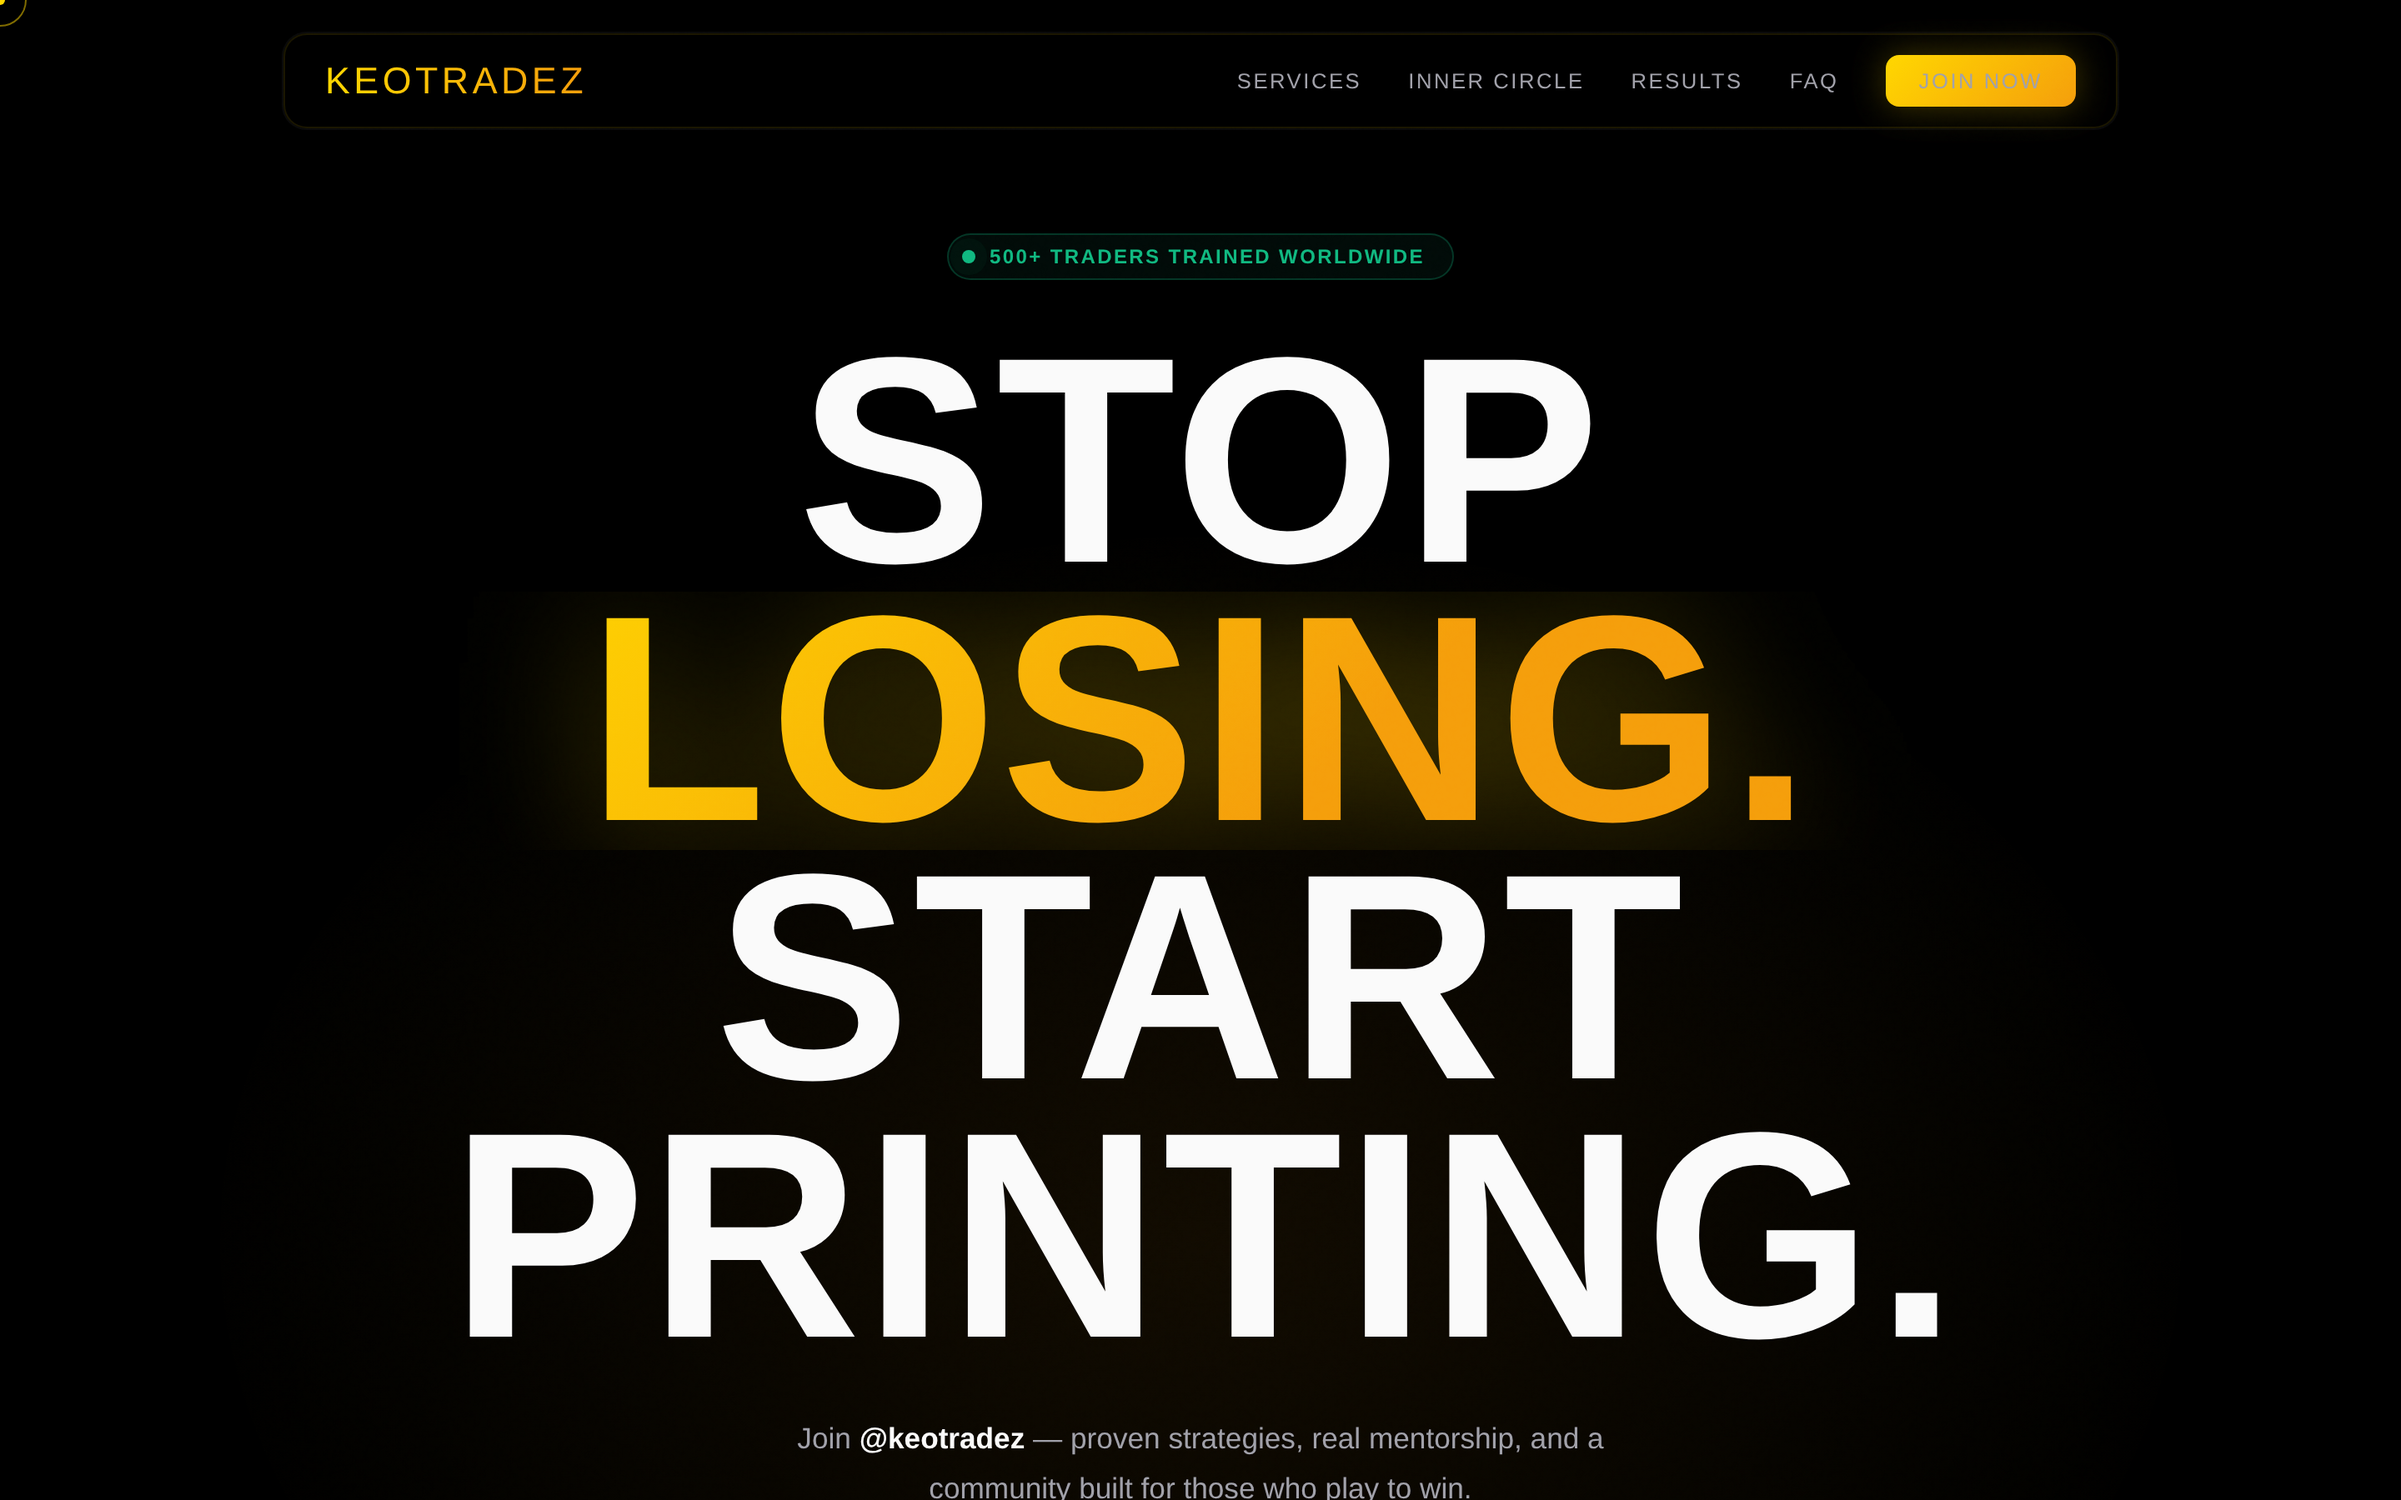
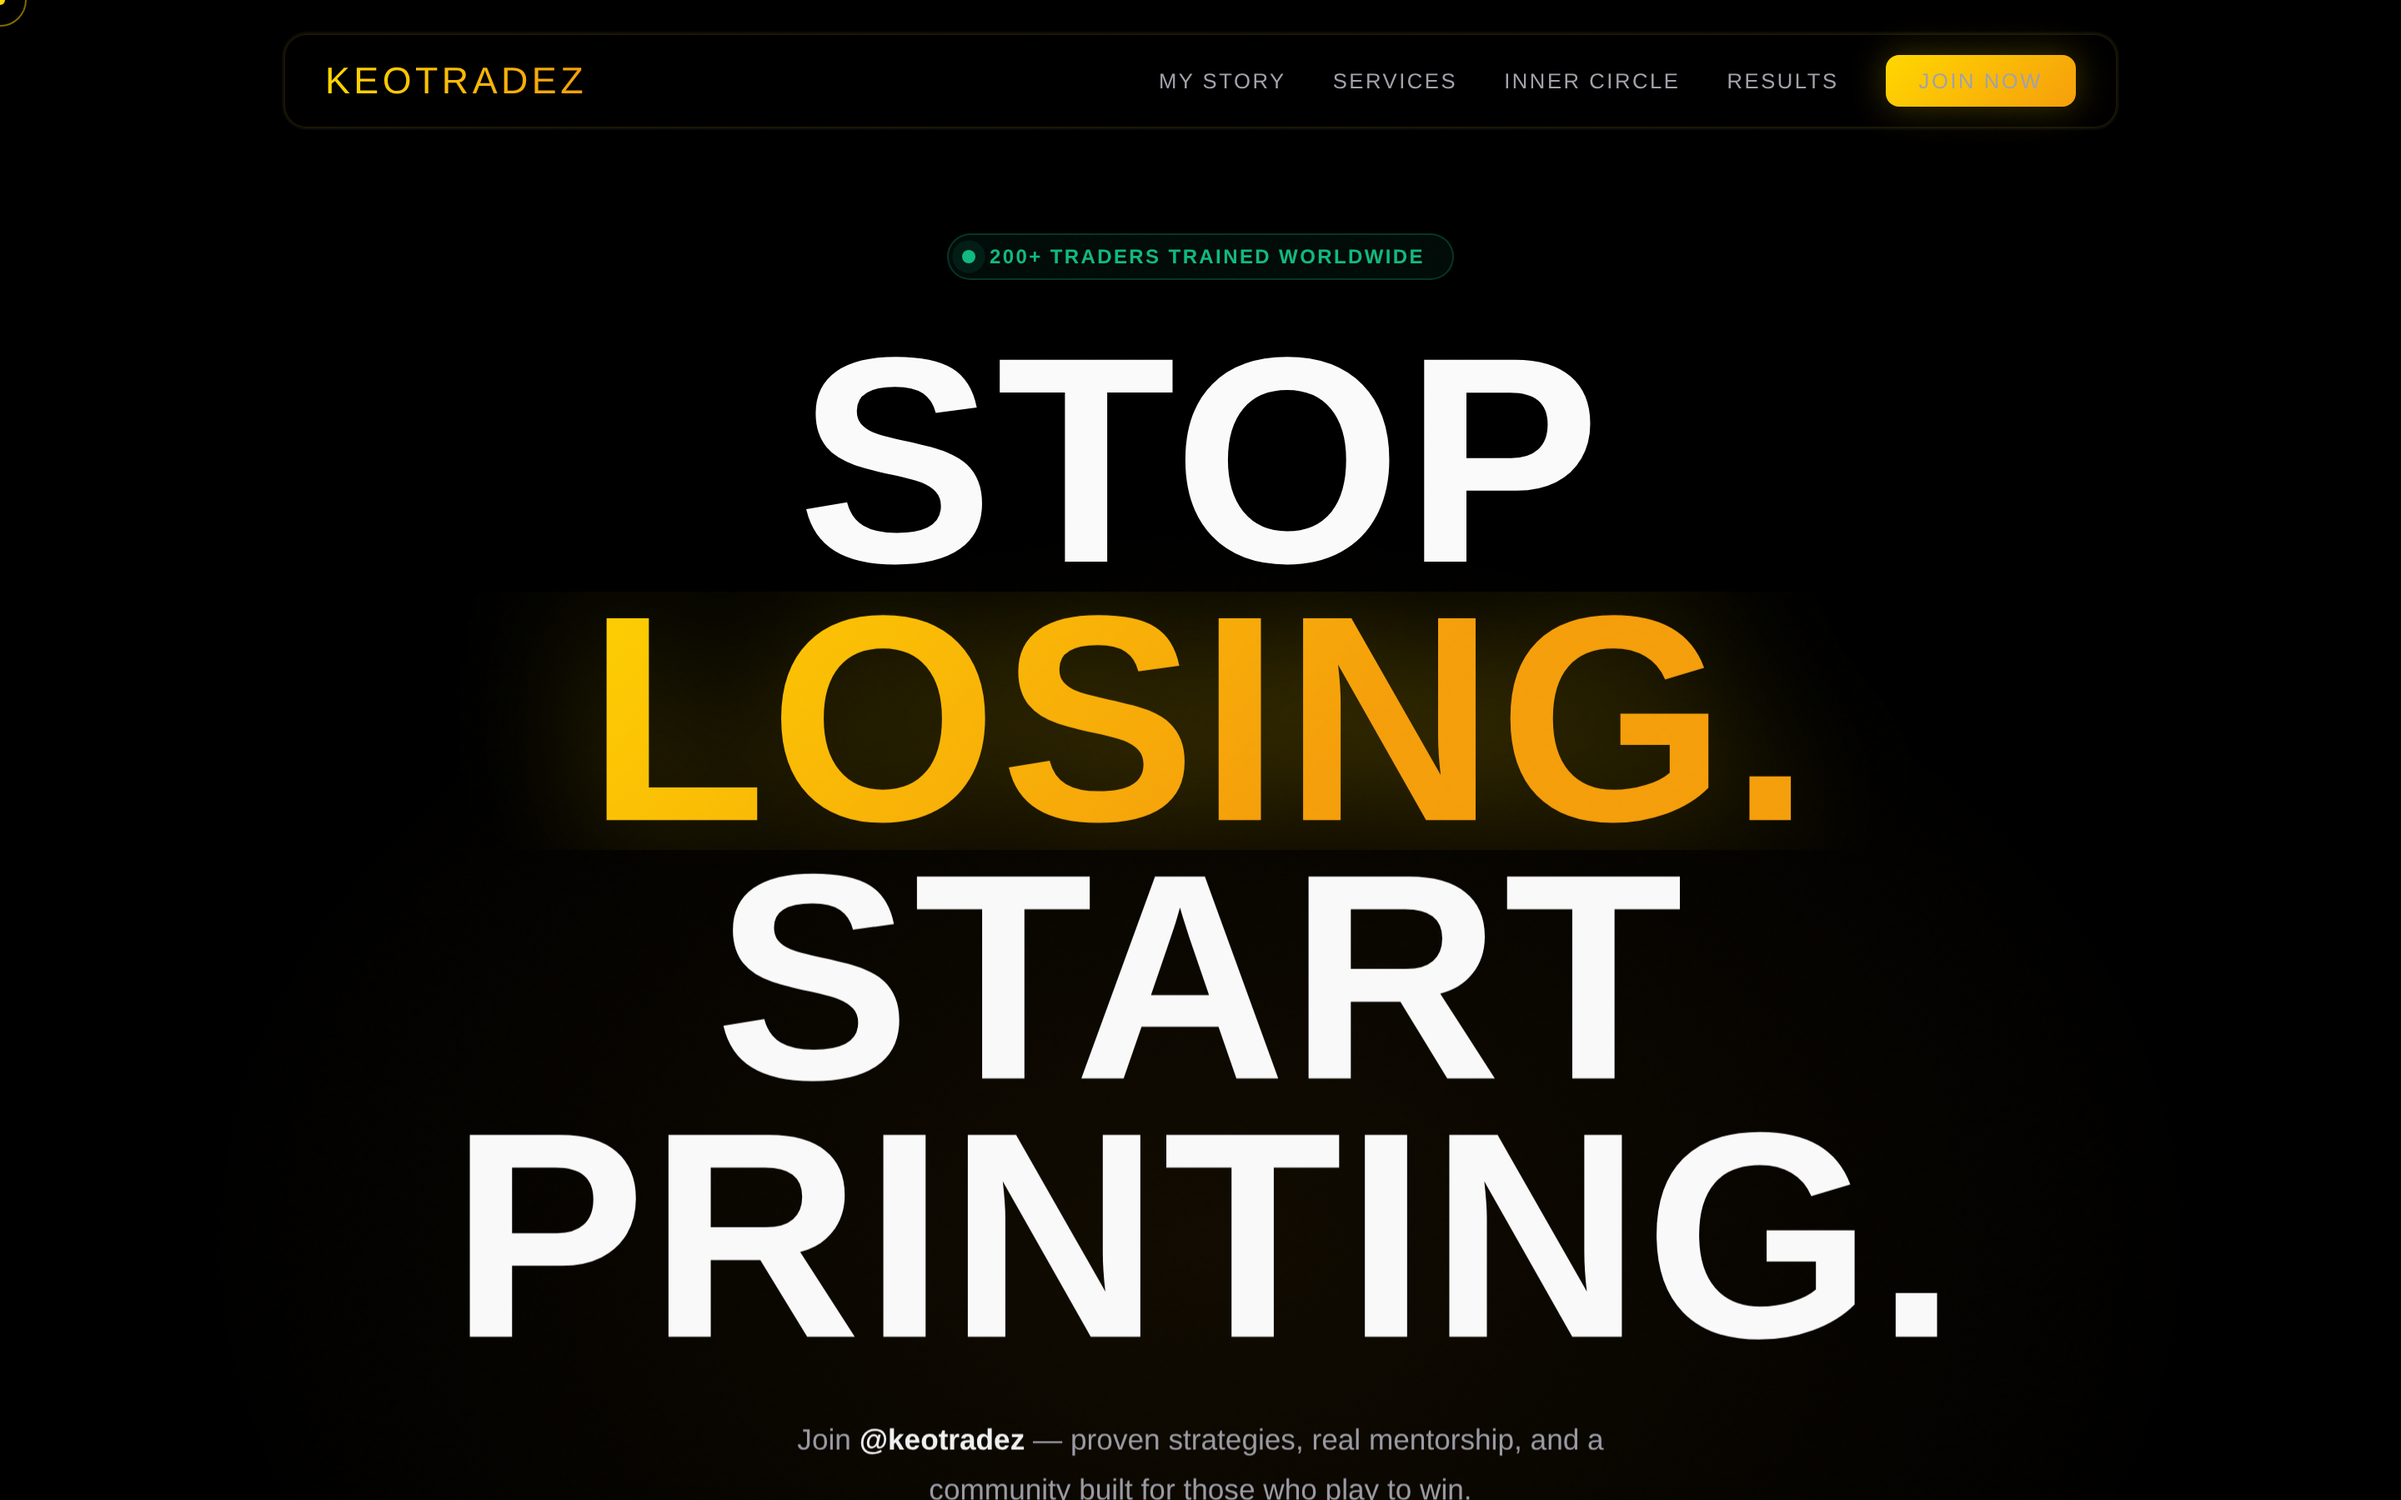
Update stats, beginner price, add My Story section
- Beginner coaching: $2,500 → $3,000
- Stats: 500+ → 200+ students, $2M → $1.2M payouts
- Remove $3,500 Inner Circle push from hero CTA
- Add My Story / Journey section with timeline: secretary → boat
- Add My Story to nav

https://claude.ai/code/session_01P6vgYkTpqMt42dQY1jEPUo

Changed region(s): [[0.375, 0.9333, 0.625, 1.0], [0.5, 0.0311, 0.75, 0.0622], [0.3438, 0.9333, 0.4062, 0.9644]]

diff --git a/index.html b/index.html
@@ -389,6 +389,60 @@
     .term-metric-val { font-family: var(--fd); font-size: 1.4rem; }
     .term-metric-lbl { font-size: .65rem; color: var(--muted2); text-transform: uppercase; letter-spacing: .1em; margin-top: 2px; }
 
+    /* ─── MY STORY ─── */
+    #about-me { padding: 140px 0; }
+    .story-grid { display: grid; grid-template-columns: 1fr 1fr; gap: 72px; align-items: center; }
+    .story-img-wrap { position: relative; }
+    .story-img {
+      width: 100%; border-radius: 24px; overflow: hidden;
+      aspect-ratio: 4/5; position: relative;
+      border: 1px solid rgba(255,215,0,.15);
+      box-shadow: 0 40px 80px rgba(0,0,0,.6), 0 0 0 1px rgba(255,255,255,.04);
+    }
+    .story-img img { width: 100%; height: 100%; object-fit: cover; object-position: center top; display: block; }
+    .story-img-placeholder {
+      width: 100%; height: 100%; background: linear-gradient(145deg, #0A0A0A, #111);
+      display: flex; align-items: center; justify-content: center; flex-direction: column; gap: 12px;
+      border-radius: 24px;
+    }
+    .story-img-placeholder svg { width: 40px; height: 40px; stroke: rgba(255,215,0,.25); }
+    .story-img-placeholder span { font-size: .78rem; color: var(--muted2); letter-spacing: .1em; text-transform: uppercase; }
+    .story-img-overlay {
+      position: absolute; bottom: 0; left: 0; right: 0; border-radius: 0 0 24px 24px;
+      background: linear-gradient(0deg, rgba(0,0,0,.85) 0%, transparent 100%);
+      padding: 28px 24px 24px;
+    }
+    .story-img-caption { font-family: var(--fd); font-size: 1rem; letter-spacing: .1em; color: var(--gold); }
+    .story-img-sub { font-size: .72rem; color: var(--muted2); margin-top: 4px; }
+    .story-accent {
+      position: absolute; top: -16px; right: -16px; z-index: 2;
+      background: linear-gradient(135deg, rgba(255,215,0,.12), rgba(255,215,0,.04));
+      border: 1px solid rgba(255,215,0,.25); border-radius: 14px; padding: 14px 18px;
+      backdrop-filter: blur(12px);
+    }
+    .story-accent-val { font-family: var(--fd); font-size: 1.5rem; color: var(--gold-b); line-height: 1; }
+    .story-accent-lbl { font-size: .65rem; color: var(--muted); text-transform: uppercase; letter-spacing: .1em; margin-top: 4px; }
+    .story-timeline { display: flex; flex-direction: column; gap: 0; margin-top: 32px; }
+    .story-milestone {
+      display: flex; gap: 16px; padding: 20px 0;
+      border-bottom: 1px solid rgba(255,255,255,.05); position: relative;
+    }
+    .story-milestone:last-child { border-bottom: none; }
+    .story-milestone-line {
+      display: flex; flex-direction: column; align-items: center; flex-shrink: 0; gap: 0;
+    }
+    .story-milestone-dot {
+      width: 10px; height: 10px; border-radius: 50%; border: 2px solid var(--gold);
+      background: var(--bg); flex-shrink: 0; margin-top: 4px;
+      box-shadow: 0 0 8px rgba(255,215,0,.3);
+    }
+    .story-milestone-line-v { flex: 1; width: 1px; background: rgba(255,215,0,.15); margin-top: 4px; }
+    .story-milestone:last-child .story-milestone-line-v { display: none; }
+    .story-yr { font-family: var(--fd); font-size: .85rem; color: var(--gold); letter-spacing: .1em; min-width: 44px; padding-top: 2px; }
+    .story-milestone-t { font-family: var(--fh); font-size: .95rem; font-weight: 700; margin-bottom: 4px; }
+    .story-milestone-d { font-size: .82rem; color: var(--muted); line-height: 1.6; }
+    @media (max-width: 1024px) { .story-grid { grid-template-columns: 1fr; max-width: 560px; margin: 0 auto; } }
+
     /* ─── TESTIMONIALS ─── */
     #testi { padding: 140px 0; }
     .testi-hdr { text-align: center; margin-bottom: 72px; }
@@ -495,10 +549,10 @@
 <nav id="nav">
   <div class="nav-logo">KEOTRADEZ</div>
   <div class="nav-links">
+    <a href="#about-me">My Story</a>
     <a href="#services">Services</a>
     <a href="#ic">Inner Circle</a>
     <a href="#testi">Results</a>
-    <a href="#faq">FAQ</a>
     <a href="#services" class="nav-cta">Join Now</a>
   </div>
   <div class="hamburger" onclick="document.getElementById('mobNav').classList.add('open')"><span></span><span></span><span></span></div>
@@ -509,7 +563,7 @@
   <div class="hero-glow"></div>
   <div style="position:relative;z-index:1;width:100%;">
     <div style="display:flex;justify-content:center;">
-      <div class="hero-badge"><span class="live-dot"></span>500+ Traders Trained Worldwide</div>
+      <div class="hero-badge"><span class="live-dot"></span>200+ Traders Trained Worldwide</div>
     </div>
     <h1 class="h1" style="margin:0 auto;max-width:900px;">
       <span class="hero-line"><span class="hero-line-inner">STOP</span></span>
@@ -519,11 +573,11 @@
     <p class="hero-sub">Join <strong>@keotradez</strong> — proven strategies, real mentorship, and a community built for those who play to win.</p>
     <div class="hero-btns">
       <a href="#services"><button class="btn btn-gold">View Programs</button></a>
-      <a href="#ic"><button class="btn btn-ghost">Inner Circle — $3,500 Lifetime</button></a>
+      <a href="#about-me"><button class="btn btn-ghost">My Story</button></a>
     </div>
     <div class="hero-stats">
       <div>
-        <div class="hstat-num" data-count="500">0</div>
+        <div class="hstat-num" data-count="200">0</div>
         <div class="hstat-lbl">Students</div>
       </div>
       <div class="hdiv"></div>
@@ -576,7 +630,7 @@
   <div class="wrap">
     <div class="about-grid">
       <div data-reveal="left">
-        <div class="tag-row"><span class="tag">Verified Trader</span><span class="tag">Live Track Record</span><span class="tag">500+ Students</span></div>
+        <div class="tag-row"><span class="tag">Verified Trader</span><span class="tag">Live Track Record</span><span class="tag">200+ Students</span></div>
         <p class="eyebrow">About Keotradez</p>
         <h2 class="h2" style="margin-top:14px;">BUILT BY<br>A <span class="gold-text">REAL</span><br>TRADER.</h2>
         <p class="about-body">No fake screenshots. No overnight success stories. <strong>Just a grinder who cracked the code</strong> and decided to bring serious students along for the ride.</p>
@@ -624,6 +678,71 @@
             <div class="chart-stat"><div class="chart-stat-val">21,535</div><div class="chart-stat-lbl">Open</div></div>
             <div class="chart-stat"><div class="chart-stat-val">22,012</div><div class="chart-stat-lbl">Day High</div></div>
             <div class="chart-stat"><div class="chart-stat-val" style="color:var(--gold)">87%</div><div class="chart-stat-lbl">Win Rate</div></div>
+          </div>
+        </div>
+      </div>
+    </div>
+  </div>
+</section>
+
+<div class="glow-line"></div>
+
+<!-- MY STORY -->
+<section id="about-me">
+  <div class="wrap">
+    <div class="story-grid">
+      <div class="story-img-wrap" data-reveal="left">
+        <div class="story-img" id="storyImgBox">
+          <!-- REPLACE src with your boat photo URL or upload the image -->
+          <!-- <img src="YOUR_PHOTO_URL_HERE" alt="Keo on the boat"> -->
+          <div class="story-img-placeholder">
+            <svg viewBox="0 0 24 24" fill="none" stroke-width="1.2"><path d="M20 21v-2a4 4 0 0 0-4-4H8a4 4 0 0 0-4 4v2"/><circle cx="12" cy="7" r="4"/></svg>
+            <span>Add your boat photo here</span>
+          </div>
+          <div class="story-img-overlay">
+            <div class="story-img-caption">@KEOTRADEZ</div>
+            <div class="story-img-sub">From office desk to open water</div>
+          </div>
+        </div>
+        <div class="story-accent">
+          <div class="story-accent-val">$1.2M+</div>
+          <div class="story-accent-lbl">Student Payouts</div>
+        </div>
+      </div>
+
+      <div data-reveal="right">
+        <p class="eyebrow">My Story</p>
+        <h2 class="h2" style="margin-top:14px;">FROM <span class="gold-text">NOBODY</span><br>TO THE BOAT.</h2>
+        <p class="about-body" style="margin-top:20px;">
+          I used to sit at a desk all day as a low-ranking office secretary. Answering emails that didn't matter, clocking hours that built someone else's dream, watching the clock. I was invisible — and I was tired of it.
+        </p>
+        <p class="about-body" style="margin-top:14px;">
+          Trading started as an escape. It quickly became an obsession. I blew my first two accounts. I worked nights after shifts. I studied charts while everyone else slept. <strong>I refused to go back to that desk.</strong>
+        </p>
+        <p class="about-body" style="margin-top:14px;">
+          It took years of discipline, failure, and relentless refinement — but the system clicked. And once it clicked, <strong>everything changed.</strong> No boss. No ceiling. No clock to watch.
+        </p>
+
+        <div class="story-timeline">
+          <div class="story-milestone">
+            <div class="story-milestone-line"><div class="story-milestone-dot"></div><div class="story-milestone-line-v"></div></div>
+            <div class="story-yr">BEFORE</div>
+            <div><div class="story-milestone-t">Low-Rank Office Secretary</div><div class="story-milestone-d">9-to-5, invisible, building someone else's future. Started trading on the side with $500.</div></div>
+          </div>
+          <div class="story-milestone">
+            <div class="story-milestone-line"><div class="story-milestone-dot"></div><div class="story-milestone-line-v"></div></div>
+            <div class="story-yr">YEAR 1</div>
+            <div><div class="story-milestone-t">Blew Two Accounts. Didn't Quit.</div><div class="story-milestone-d">Lost money. Learned hard. Rebuilt the system from scratch with obsessive discipline.</div></div>
+          </div>
+          <div class="story-milestone">
+            <div class="story-milestone-line"><div class="story-milestone-dot"></div><div class="story-milestone-line-v"></div></div>
+            <div class="story-yr">YEAR 2</div>
+            <div><div class="story-milestone-t">Consistently Profitable. Quit the Job.</div><div class="story-milestone-d">Handed in the notice. No safety net. Pure belief in the system — and it paid off.</div></div>
+          </div>
+          <div class="story-milestone">
+            <div class="story-milestone-line"><div class="story-milestone-dot"></div><div class="story-milestone-line-v"></div></div>
+            <div class="story-yr">NOW</div>
+            <div><div class="story-milestone-t">200+ Students. $1.2M in Payouts.</div><div class="story-milestone-d">On the boat. Mentoring serious traders. Teaching the exact system that changed my life.</div></div>
           </div>
         </div>
       </div>
@@ -695,7 +814,7 @@
           <li><span class="feat-check"></span>Platform setup &amp; orientation</li>
           <li><span class="feat-check"></span>Ongoing support &amp; accountability</li>
         </ul>
-        <div class="card-price">$2,500</div>
+        <div class="card-price">$3,000</div>
         <div class="card-price-sub">Most comprehensive beginner program</div>
         <div class="card-split"><span class="split-dot"></span>3 split payments — 0% interest</div>
         <button class="btn btn-ghost" style="width:100%;justify-content:center;">Start Your Journey &rarr;</button>
@@ -756,7 +875,7 @@
   <div class="wrap">
     <div class="stats-row">
       <div class="stat-col" data-reveal style="transition-delay:.0s">
-        <div class="stat-num-wrap"><span data-count="500">0</span>+</div>
+        <div class="stat-num-wrap"><span data-count="200">0</span>+</div>
         <div class="stat-lbl">Students Mentored</div>
         <div class="stat-sub">Across all programs</div>
       </div>
@@ -766,8 +885,8 @@
         <div class="stat-sub">Verified live track record</div>
       </div>
       <div class="stat-col" data-reveal style="transition-delay:.2s">
-        <div class="stat-num-wrap">$<span data-count="2">0</span>M+</div>
-        <div class="stat-lbl">Student Profits</div>
+        <div class="stat-num-wrap">$<span data-count="1" data-decimal=".2">1</span>.2M+</div>
+        <div class="stat-lbl">Student Payouts</div>
         <div class="stat-sub">Combined community results</div>
       </div>
       <div class="stat-col" data-reveal style="transition-delay:.3s">
@@ -925,7 +1044,7 @@
           <h4>Programs</h4>
           <a href="#services">Digital Course — $999</a>
           <a href="#services">Advanced Coaching — $2,000</a>
-          <a href="#services">Beginner Coaching — $2,500</a>
+          <a href="#services">Beginner Coaching — $3,000</a>
           <a href="#ic">Inner Circle — $3,500</a>
         </div>
         <div class="foot-col">
